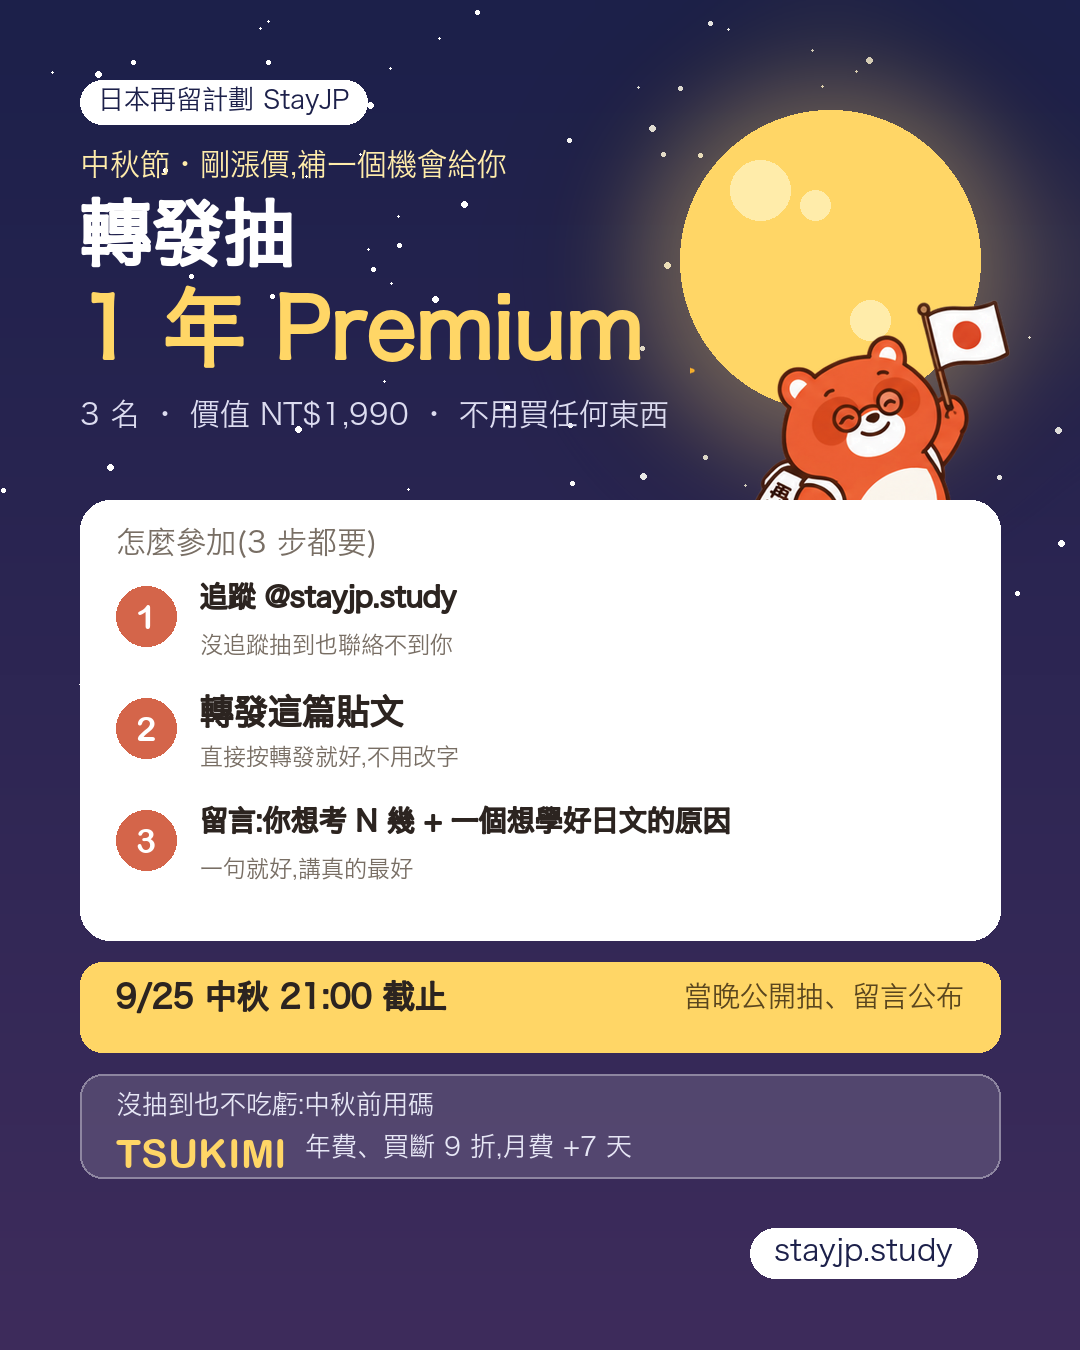
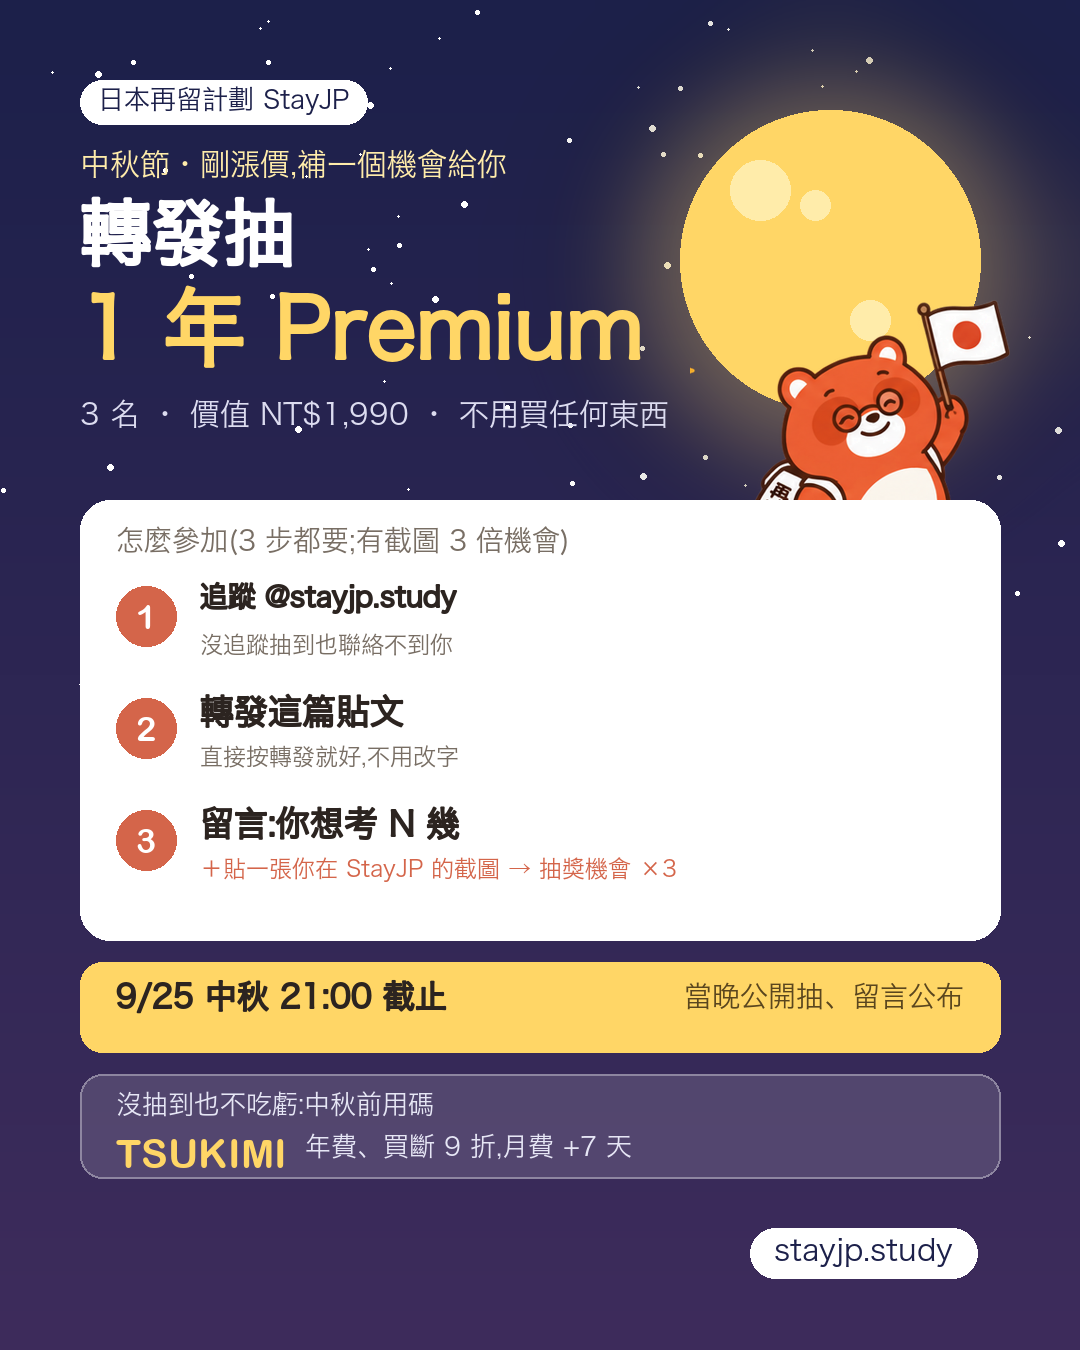
中秋活動頁 tsukimi.html(9 折已套用+倒數+30 秒試用入口+抽獎規則);app.html ?open= 深連結直開小狸/用聽的背/文章、活動連結不導引導頁;抽獎圖加截圖 ×3

Changed region(s): [[0.1833, 0.5911, 0.6722, 0.6533], [0.1222, 0.3733, 0.5194, 0.4356]]

diff --git a/tsukimi.html b/tsukimi.html
@@ -1,0 +1,111 @@
+<!DOCTYPE html>
+<html lang="zh-Hant">
+<head>
+<meta charset="utf-8">
+<meta name="viewport" content="width=device-width,initial-scale=1,viewport-fit=cover">
+<title>中秋 9 折 × 抽 1 年 Premium — 日本再留計劃 StayJP</title>
+<meta name="description" content="StayJP 中秋活動:推薦碼 TSUKIMI 年費、買斷 9 折、月費 +7 天(到 9/25);轉發抽 3 位一年 Premium。先 30 秒試試小狸助教、用聽的背單字、文章閱讀。">
+<meta property="og:title" content="中秋 9 折 × 抽 1 年 Premium｜StayJP">
+<meta property="og:description" content="推薦碼 TSUKIMI 到中秋:年費 1,790、買斷 5,390、月費 +7 天。先 30 秒試試看有多好用。">
+<meta property="og:image" content="https://stayjp.study/images/social/moon2026/moon-giveaway.png">
+<link rel="icon" href="stayjpplan.png?v=5" type="image/png">
+<style>
+:root{--bg:#FAF9F6;--bg2:#fff;--bg3:#F3F1ED;--tx:#2C2C2C;--tx2:#7A7A7A;--tx3:#ACACAC;--ac:#D4654A;--ac2:#4A7FD4;--bd:#E8E5E0;--moon:#FFD666}
+*{box-sizing:border-box}body{margin:0;background:var(--bg);color:var(--tx);font-family:-apple-system,"PingFang TC","Hiragino Sans",sans-serif;line-height:1.6}
+.hero{background:linear-gradient(160deg,#1C204A,#3E2C5C);color:#fff;padding:28px 20px 30px;position:relative;overflow:hidden}
+.hero .moon{position:absolute;right:-30px;top:-40px;width:220px;height:220px;border-radius:50%;background:var(--moon);box-shadow:0 0 80px rgba(255,214,102,.55)}
+.hero .tanuki{position:absolute;right:22px;top:80px;width:150px}
+.wrap{max-width:560px;margin:0 auto;position:relative;z-index:1}
+.pill{display:inline-block;background:#fff;color:#1C204A;border-radius:999px;padding:4px 12px;font-size:12.5px;font-weight:700}
+h1{font-size:30px;line-height:1.25;margin:14px 0 6px;font-weight:900;max-width:60%}
+h1 b{color:var(--moon)}
+.sub{color:#dcdcf0;font-size:14px;margin:0 0 16px;max-width:60%}
+.code{display:flex;align-items:center;gap:12px;background:rgba(255,255,255,.12);border:1px solid rgba(255,255,255,.3);border-radius:14px;padding:12px 14px;margin-top:14px}
+.code b{font-size:26px;letter-spacing:.06em;color:var(--moon);font-family:"Arial Rounded MT Bold",-apple-system,sans-serif}
+.code small{color:#e6e6f5;font-size:12.5px;line-height:1.5}
+.applied{margin-top:10px;font-size:13px;color:#b9f0c9;font-weight:700}
+.cd{margin-top:8px;font-size:12.5px;color:#cfcfe6}
+main{max-width:560px;margin:0 auto;padding:18px 16px 60px}
+h2{font-size:17px;margin:22px 0 10px}
+.try{display:grid;gap:10px}
+.try a{display:flex;gap:14px;align-items:center;background:var(--bg2);border:1px solid var(--bd);border-radius:16px;padding:14px 16px;color:inherit;text-decoration:none;box-shadow:0 1px 3px rgba(0,0,0,.03)}
+.try a:active{transform:scale(.99)}
+.try .ic{flex:none;width:46px;height:46px;border-radius:14px;background:#FBEEE8;display:flex;align-items:center;justify-content:center;font-size:22px}
+.try .t{font-weight:800;font-size:15px}.try .d{font-size:12.5px;color:var(--tx2);margin-top:2px}.try .go{margin-left:auto;color:var(--tx3);font-size:20px}
+.price{background:var(--bg2);border:1px solid var(--bd);border-radius:16px;padding:14px 16px}
+.price table{width:100%;border-collapse:collapse;font-size:14px}.price td{padding:8px 0;border-bottom:1px solid var(--bd)}.price tr:last-child td{border-bottom:0}
+.price .old{color:var(--tx3);text-decoration:line-through;font-size:13px;margin-right:8px}.price .new{color:var(--ac);font-weight:900;font-size:18px}
+.cta{display:block;text-align:center;background:var(--ac);color:#fff;border-radius:14px;padding:14px;font-weight:800;text-decoration:none;margin-top:12px;font-size:15px}
+.rules{background:var(--bg3);border-radius:16px;padding:14px 16px;font-size:13.5px;color:var(--tx)}
+.rules ol{margin:6px 0 0;padding-left:20px}.rules li{margin:4px 0}.rules .hi{color:var(--ac);font-weight:700}
+.foot{margin-top:24px;font-size:12px;color:var(--tx3);text-align:center}
+.foot a{color:var(--tx2)}
+</style>
+</head>
+<body>
+<header class="hero">
+  <div class="moon"></div>
+  <img class="tanuki" src="images/mascot/tanuki-p03.png" alt="">
+  <div class="wrap">
+    <span class="pill">日本再留計劃 StayJP・中秋活動</span>
+    <h1>中秋前<br><b>年費、買斷 9 折</b><br>再抽 1 年 Premium</h1>
+    <p class="sub">剛漲價完，補一個機會給還在觀望的人。先花 30 秒試試看，喜歡再說。</p>
+    <div class="code"><b>TSUKIMI</b><small>年費 1,990 → <b style="font-size:15px;color:#fff">1,790</b>・買斷 5,990 → <b style="font-size:15px;color:#fff">5,390</b>・月費 +7 天<br>到 9/25（中秋）23:59</small></div>
+    <div class="applied" id="applied">✓ 推薦價已記住，登入後在網頁或 App 結帳都會自動套用</div>
+    <div class="cd" id="cd"></div>
+  </div>
+</header>
+<main>
+  <h2>先 30 秒試試，不用登入</h2>
+  <div class="try">
+    <a href="app.html?ref=TSUKIMI&open=tutor"><span class="ic">🦝</span><span><div class="t">貼一句日文，讓小狸拆給你看</div><div class="d">讀音、詞性、助詞功能逐詞列出，錯的地方直接給修正句</div></span><span class="go">›</span></a>
+    <a href="app.html?ref=TSUKIMI&open=listen"><span class="ic">🎧</span><span><div class="t">用聽的背 30 個單字</div><div class="d">單字 → 停頓 → 例句連著播，真人級語音，螢幕關著也能聽</div></span><span class="go">›</span></a>
+    <a href="app.html?ref=TSUKIMI&open=article:a-n4-11"><span class="ic">📖</span><span><div class="t">讀一篇「電車に傘を忘れた日」</div><div class="d">N4 短文，逐句朗讀、點任何字查意思、句尾小狸鈕拆句</div></span><span class="go">›</span></a>
+    <a href="jlpt-drill.html?ref=TSUKIMI"><span class="ic">🎯</span><span><div class="t">刷 5 題 JLPT 聽力</div><div class="d">2,800 題照真題出、每題詳解，聽力 130 題全是真人級語音</div></span><span class="go">›</span></a>
+  </div>
+
+  <h2>推薦價</h2>
+  <div class="price">
+    <table>
+      <tr><td><b>年費</b><div style="font-size:12px;color:var(--tx2)">往後每年續扣都鎖 1,790</div></td><td style="text-align:right"><span class="old">NT$1,990</span><span class="new">NT$1,790</span></td></tr>
+      <tr><td><b>買斷</b><div style="font-size:12px;color:var(--tx2)">一次付清，永久使用</div></td><td style="text-align:right"><span class="old">NT$5,990</span><span class="new">NT$5,390</span></td></tr>
+      <tr><td><b>月費</b><div style="font-size:12px;color:var(--tx2)">不折價，多送一週</div></td><td style="text-align:right"><span style="font-size:13px;color:var(--tx2);margin-right:8px">NT$390</span><span class="new">+7 天</span></td></tr>
+    </table>
+    <a class="cta" href="pricing.html?ref=TSUKIMI">看方案・結帳（9 折已套用）</a>
+    <div style="font-size:12px;color:var(--tx3);margin-top:8px;text-align:center" id="iosNote">iPhone 用戶這幾天請在網頁結帳；同帳號登入 App 即解鎖。</div>
+  </div>
+
+  <h2>轉發抽 1 年 Premium（3 名）</h2>
+  <div class="rules">
+    到 Threads <a href="https://www.threads.com/@stayjp.study" target="_blank" rel="noopener" style="color:var(--ac);font-weight:700">@stayjp.study</a> 的活動貼文：
+    <ol>
+      <li>追蹤 @stayjp.study</li>
+      <li>轉發活動貼文</li>
+      <li>留言你想考 N 幾；<span class="hi">加一張你在 StayJP 的截圖（小狸拆句、學習計畫卡、用聽的背都可以）→ 抽獎機會 ×3</span></li>
+    </ol>
+    <div style="margin-top:8px;color:var(--tx2)">9/25（中秋）21:00 截止，當晚公開亂數抽、原貼文留言公布。獎品為年費 Premium 一年，不折現、不轉讓；已是 Premium 者得獎延長一年。</div>
+  </div>
+
+  <div class="foot">推薦碼與活動連結由 StayJP 官方提供，無分潤。<a href="./">回首頁</a> · <a href="pricing.html">方案</a> · <a href="terms.html">條款</a></div>
+</main>
+<script src="native-ui.js" defer></script>
+<script>
+(function(){
+  // 記住活動碼(跟 auth-header 同一把 key;登入後由既有流程寫進帳號)
+  try { if (!localStorage.getItem('stayjp_ref')) localStorage.setItem('stayjp_ref', 'TSUKIMI'); } catch (e) {}
+  // 倒數到 9/25 23:59 台灣時間
+  var end = new Date('2026-09-25T23:59:59+08:00').getTime();
+  function tick(){ var d = end - Date.now(); var el = document.getElementById('cd'); if (!el) return; if (d <= 0) { el.textContent = '活動已結束'; return; } var day = Math.floor(d/864e5), h = Math.floor(d%864e5/36e5), m = Math.floor(d%36e5/6e4); el.textContent = '⏳ 還剩 ' + day + ' 天 ' + h + ' 小時 ' + m + ' 分'; }
+  tick(); setInterval(tick, 30000);
+  // App 內看到這頁:iPhone 提示改成「點連結會自動套用」(1.0.11 上架後由 app-version.json 判斷)
+  try {
+    var n = document.getElementById('iosNote');
+    if (window.STAYJP_NATIVE && STAYJP_NATIVE.isNativeApp) { n.textContent = '在 App 內購買會自動顯示推薦價。'; }
+    else fetch('app-version.json').then(function(r){return r.json()}).then(function(j){ var v=(j.latest&&j.latest.ios||'0').split('.').map(Number); if (v[0]>1||(v[0]===1&&(v[1]>0||(v[2]||0)>=11))) n.textContent='iPhone 用戶點連結開 App 會自動套用推薦價;也可直接在網頁結帳。'; }).catch(function(){});
+  } catch (e) {}
+  // GA(若有)
+  try { if (typeof gtag === 'function') gtag('event', 'campaign_view', { campaign: 'moon2026' }); } catch (e) {}
+})();
+</script>
+</body>
+</html>

diff --git a/app.html b/app.html
@@ -3966,6 +3966,7 @@ function onbFinish() { localStorage.setItem('onboarding_done_v1', '1'); _onbRemo
 (function(){
   try{
     if (localStorage.getItem('onboarding_done_v1') || localStorage.getItem('ob_v2_done')) return;
+    if (/[?&](open|ref)=/.test(location.search)) return;   // 活動/推薦連結進來的人直接看功能,不先導去引導(2026-09-17)
     if (localStorage.getItem('base_level') || localStorage.getItem('goal_level')) return;
     if (Object.keys(JSON.parse(localStorage.getItem('study_log')||'{}')).length) return;
     location.replace('onboarding-v2.html');
@@ -5329,5 +5330,11 @@ function toggleDetail(btn) {
 <script src="tutor.js"></script>
 <!-- Cloudflare Web Analytics --><script defer src="https://static.cloudflareinsights.com/beacon.min.js" data-cf-beacon="{&quot;token&quot;: &quot;0a94a20c2737440a86f55c4241011f68&quot;}"></script><!-- End Cloudflare Web Analytics -->
 <script src="back-to-top.js"></script>
+<!-- 活動/深連結直開功能:?open=tutor | listen | article:<id>(tsukimi.html 等活動頁用;等模組與內容載好再開,最多等 12 秒) -->
+<script>(function(){try{var o=new URLSearchParams(location.search).get('open');if(!o)return;var tries=0;(function go(){tries++;
+  if(o==='tutor'&&window.Tutor){Tutor.open();return}
+  if(o==='listen'&&window.VocabListen){VocabListen.open();return}
+  if(o.indexOf('article:')===0&&window.Articles&&window.ARTICLES&&ARTICLES.length){Articles.read(o.slice(8));return}
+  if(tries<40)setTimeout(go,300)})();}catch(e){}})();</script>
 </body>
 </html>

diff --git a/sw.js b/sw.js
@@ -20,7 +20,7 @@
 //   3. 預快取改逐檔 add + catch —— 單一檔案 404 不再讓整個 SW 裝不起來
 //   4. 常用頁面/腳本補進預快取清單
 
-const VERSION = 'v533';
+const VERSION = 'v534';
 const PRECACHE = 'stayjp-' + VERSION;   // 版本化:更新時重新預快取
 const RUNTIME = 'stayjp-runtime';       // 不隨版號刪除:瞬斷/離線時的救命網
 const CACHE_NAME = PRECACHE;            // 舊名稱保留,避免別處有引用

diff --git a/scripts/gen-moon-giveaway.py b/scripts/gen-moon-giveaway.py
@@ -37,12 +37,12 @@ T(d, (80, 400), '3 名 · 價值 NT$1,990 · 不用買任何東西', F(30), (220
 # 步驹卡
 cy0 = 500
 d.rounded_rectangle([80, cy0, W - 80, cy0 + 440], radius=30, fill=WHITE)
-T(d, (116, cy0 + 28), '怎麼參加(3 步都要)', F(30), MUTED)
-steps = [('追蹤 @stayjp.study', '沒追蹤抽到也聯絡不到你'), ('轉發這篇貼文', '直接按轉發就好,不用改字'), ('留言:你想考 N 幾 + 一個想學好日文的原因', '一句就好,講真的最好')]
+T(d, (116, cy0 + 28), '怎麼參加(3 步都要;有截圖 3 倍機會)', F(28), MUTED)
+steps = [('追蹤 @stayjp.study', '沒追蹤抽到也聯絡不到你'), ('轉發這篇貼文', '直接按轉發就好,不用改字'), ('留言:你想考 N 幾', '＋貼一張你在 StayJP 的截圖 → 抽獎機會 ×3')]
 sy = cy0 + 86
 for i, (a, b) in enumerate(steps):
     d.ellipse([116, sy, 176, sy + 60], fill=ORANGE); T(d, (146, sy + 30), str(i + 1), N(34), WHITE, anchor='mm')
-    T(d, (200, sy - 2), a, F(34 if len(a) < 16 else 28), INK, 1); T(d, (200, sy + 46), b, F(23, False), MUTED)
+    T(d, (200, sy - 2), a, F(34 if len(a) < 16 else 28), INK, 1); T(d, (200, sy + 46), b, F(23, False), ORANGE if '×3' in b else MUTED)
     sy += 112
 # 截止 / 開獎
 d.rounded_rectangle([80, cy0 + 462, W - 80, cy0 + 462 + 90], radius=22, fill=(255, 214, 102))
